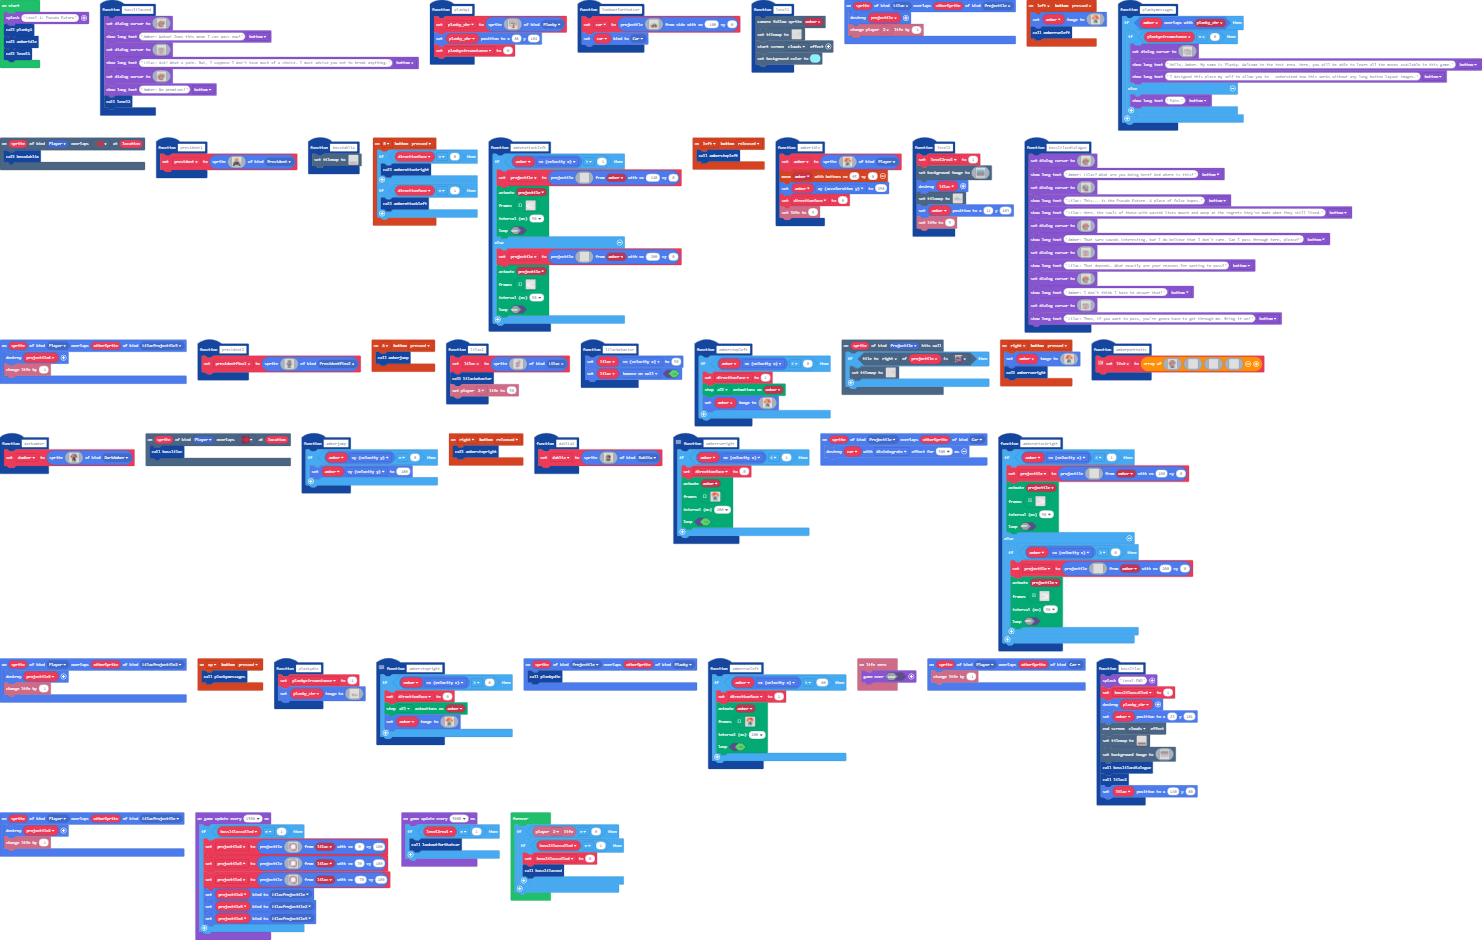
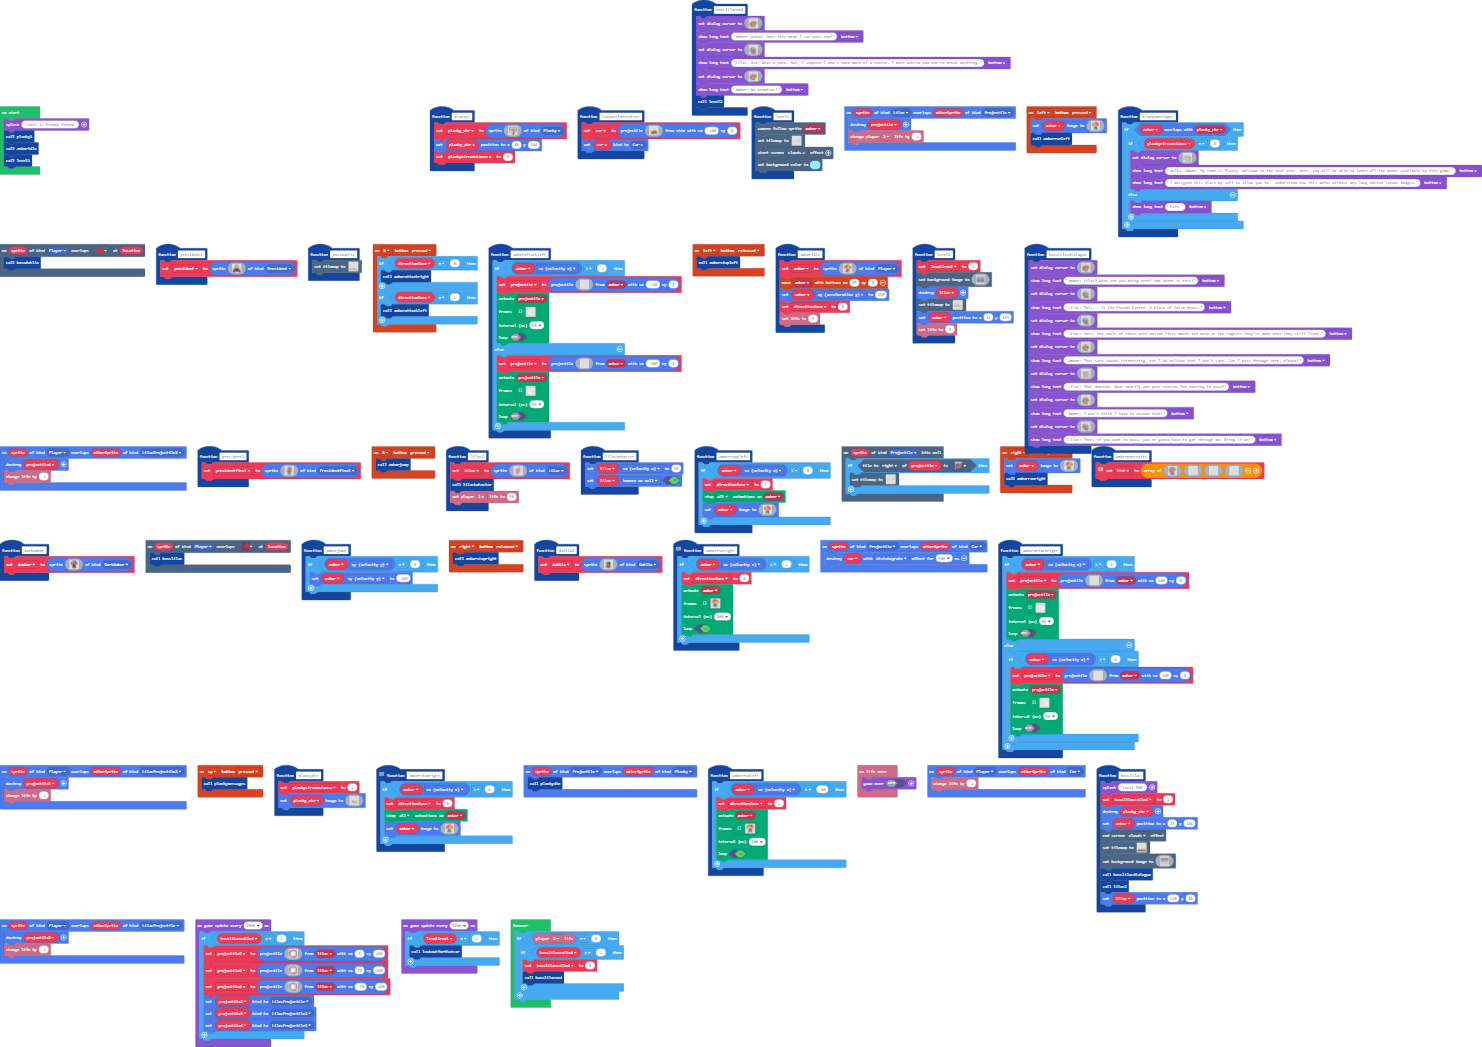
Update main.blocks, main.ts

diff --git a/main.ts b/main.ts
@@ -456,47 +456,47 @@ function bosslilacend () {
 . . . . . . . . . . . . . . . . . . . . . . . . . . . . . . . . . . . . . . . . . . . . . . . . . . 
 . . . . . . . . . . . . . . . . . . . . . . . . . . . . . . . . . . . . . . . . . . . . . . . . . . 
 . . . . . . . . . . . . . . . . . . . . . . . . . . . . . . . . . . . . . . . . . . . . . . . . . . 
-. . . . . . . . . . . . . . . . . . . . . . . . . . . . . . . . . . . . . . . . . . . . . . . . . . 
-. . . . . . . . . . . . . . . . . . . . . . . . . . . . . . . . . . . . . . . . . . . . . . . . . . 
-. . . . . . . . . . . . . . . . . . . . . . . . . . . . . . . . . . . . . . b . . . . . . . . . . . 
-. . . . . . . . . . . . . . . . . b . . . . . . . . . . . . . . . . . . . b b . . . . . . . . . . . 
-. . . . . . . . . . . . . . . . . b . . . . b b b b b b b b b b b b . b b b . . . . . . . . . . . . 
-. . . . . . . 2 2 2 . . . . . . . . b b b b b b b b b b b b b b b b b b b . . . . . . . . . . . . . 
-. . . . . . . 2 . . 2 . . . . b b b b b b b b b b b b b b b b b b b b b b b b . . b . . . . . . . . 
-. . . . . . . 2 . . 2 2 . b 2 2 2 b b b b b b b b b b b b b b b b b b b b b b b b b . . . . . . . . 
-. . . . . . . 2 . . 2 2 2 2 b b 2 b b b b b b b b b b b b b b b b b b b b b b b b . . . . . . . . . 
-. . . . . . . 2 2 2 2 b 2 b b b 2 b b b b b b b b b b b b b b b b b b b b b b b b b . . . . . . . . 
-. . . . . . . 2 2 2 2 2 b b b b 2 b b b b b b b b b b b b b b b b b b b b b b b b b . . . . . . . . 
-. . . . . . . 2 b 2 2 b 2 2 2 2 b b b b b b b b b b b b f b b b b b b b b b b b b b b . . . . . . . 
-. . . . . 2 2 b 2 2 2 2 b 2 b b b b f f b b b b b b b f f b b b b b b b b b b b b b b b . . . . . . 
-. . . . . 2 . 2 b 2 2 b b b b b b b b f f b b b b f f d d d d d d d b b b b b b b b b b . . . . . . 
-. . . . 2 2 2 b 2 2 2 b b b b b b b b b f f d d f f f f f f f f d d b b b b b b b b b b b . . . . . 
-. . . . . . b b 2 2 b b b b d f f f f f f d d d d d f f f f f f d d b b b b b b b b b b b . . . . . 
-. . . b . . b b 2 2 b b b b d f f f f f f d d d d f d d d d d d d d b b b b b b b b b b b b . . . . 
-. . . b b b b b 2 b b b b b d d d d d d d d d d f f d d d d d d d d b b b b b b b b b b b b . . . . 
-. . . . b b b b b b b b b b d d d d d f f f f f f f d d d d d d d d b b b b b b b b b b b . . . . . 
-. . . . . b b b b b b b b b d d d d d d d d d d d f f d d d d d d d b b b b b b b b b . . . . . . . 
-. . . . . b b b b b b b b b d d d d d d d d d d d d d d d d d f f f b b b b b b b . . . . . . . . . 
-. . . . . b b b b b b b b b . d d d d d d d d d d d d f f d f 1 1 f b b b b . . . . . . . . . . . . 
-. . . . . b b b b b b b b b b . . d d d d d f f d d f 1 1 f f 1 1 1 b b b b b b b b b . . . . . . . 
-. . . . . b b b b b b b b b b . . . . d d f f f f f 1 1 1 f 1 1 1 1 b b b b b b b b b b . . . . . . 
-. . . . . . . . . . . . . . . . f f f f f f 1 f f 1 1 1 1 1 1 1 b b b b b b b b b b b b b b b . . . 
-. . . . . . . . . b b b b b b b f 1 1 f f 1 1 1 1 1 1 1 1 f f b b b b b b b b b b b b b b b . . . . 
-. . . . . . . . b b b b b b b b f f 1 1 1 1 1 1 2 f f f f b b b b b b b b b b b b b b b b . . . . . 
-. . . . . . . . b b b b b b b b b f f 1 1 2 2 2 f 2 2 2 2 2 b b b b b b b b b b b b b b b . . . . . 
-. . . . . . . b b b b b b b b b b b f 2 2 2 2 1 1 2 1 1 1 2 b b b b b b b b b b b b b b . . . . . . 
-. . . . . b b b b b b b b b b b b b 2 1 1 1 2 2 2 2 2 1 1 2 b b b b b b b b b b b b b . . . . . . . 
-. . . . . . . . b b b b b b b b b 2 1 1 1 1 1 2 2 b b 2 2 b b b b b b b b b b b b b b . . . . . . . 
-. . . . . . . . b b b b b b b b 2 2 2 2 2 2 2 b 2 b b b b b b b b b b b b b b b b . . . . . . . . . 
-. . . . . . . . . . f b b b b b b b b b b b 2 b b 2 b b b b b b b b . . . . . f f . . . . . . . . . 
-. . . . . . . . . f . . . . b b b b b b b 2 b b b 2 b b b b b b b b . . . . . . f . . . . . . . . . 
-. . . . . . . . f f . . . . b b b b b b 2 b b b b 2 b b b b b b b . . . . . . . f f . . . . . . . . 
-. . . . . . . . f . . . . . . 2 2 b b b 2 b b b b b 2 b b b b 2 . . . . . . . . . f f . . . . . . . 
-. . . . . . f f . . . . . . . 2 2 2 2 2 2 2 2 2 2 2 2 2 2 2 2 2 . . . . . . . . . . f f . . . . . . 
-. . . . . . f . . . . . b b b 2 2 2 2 2 2 2 2 2 2 2 2 2 2 2 2 2 . . . . . . . . . . . f . . . . . . 
-. . . . . f . . . . b b b b b b b b b 2 2 2 2 2 2 2 2 2 2 2 2 2 b b b . . . . . . . . . f f . . . . 
-. . . . f f . . . b b b b b b b b b b b b b b b b b b b b b b b b b b b b . . . . . . . . f . . . . 
-. . . . . . . . b b b b b b b b b b b b b b b b b b b b b b b b b b b b b b . . . . . . . . . . . . 
+. . . . . . . . . . . . . . . . f f f f f f f f f f f f f . . . . . . . . . . . . . . . . . . . . . 
+. . . . . . . . . f . . . . f f c b b b b b b b b b b b c f f . . f . . . . . . . . . . . . . . . . 
+. . . . . . . . . . f . f f c b b b b b b b b b b b b b b b c f f . . . . . . . . . . . . . . . . . 
+. . . . . . . . . f . f c b b b b b b b b b b b b b b b b b b b c f . . . . . . . . . . . . . . . . 
+. . . . . . . . . . f c f b b b b b b b b b b b b b b b b b b b d b f . . . . . . . . . . . . . . . 
+. . . . . . . . . f c f b f b b f f b b b b b b b b b b b b b d 1 1 b f . . . . . . . . . . . . . . 
+. . . . . . f f f c b b b b b f c f b b b b b b b b b b b d 1 1 1 1 d c f . . . . . . . . . . . . . 
+. . . . . . f c f c b b b b f 2 2 f b b b b b b b b d 1 1 1 1 1 d b b b f . . . . . . . . . . . . . 
+. . . . . . f 2 2 f c b b f 2 2 2 f b b d 1 1 1 1 1 1 1 1 d c b b b b b c f . . . . . . . . . . . . 
+. . . . . . f 2 2 2 f f f 2 2 2 c f b b b b b d 1 1 d b b b b f b b b b c f . . . . . . . . . . . . 
+. . . . . . f c 2 f 2 2 f 2 2 2 f b b b b b b b b b b b b b b b f b b c f c f . . . . . . . . . . . 
+. . . . . . f f 2 f 2 2 f 2 2 2 f b b b b b b b b b b b b b b b f c c f c b c f . . . . . . . . . . 
+. . . . . . f f 2 f 2 c f 2 2 c f b b b b b c b b b b b b b b b b f f f c b b c f . . . . . . . . . 
+. . . . . . f f c 2 f f f c 2 f b b b b b b f b b b b b b b b b c f c f c b b b f . . . . . . . . . 
+. . . . . f c b f f c f 2 f f f b b b b b b f b b b b b b b b c f f c c f b b b c f . . . . . . . . 
+. . . . . f b b f 2 f f 2 f b b b b b b b b f b b b b b b b c f c f c b f b b c c f f . . . . . . . 
+. . . . f c b f 2 2 f f 2 f b b c b b b b c f c b b b b c f f c c f f b f c b f c f . . . . . . . . 
+. . . . f b f c 2 f b f 2 f b b f c c f c c f f c c f f f c c f b c f b c f b b f f . . . . . . . . 
+. . . f c b f c f b b f 2 f b b c f f f f f f f f f c c c f f b f f f b b f c b f f . . . . . . . . 
+. . . f c b b f f b b f c f b b b c f c c f f c f c b b f f f f d 1 1 c b f c b f . . . . . . . . . 
+. . . f c b b b b b b b f f c b b b f c c d d f f 2 2 2 2 2 2 2 d d c f b c f c f . . . . . . . . . 
+. . . f c c b b b b b b b c f b b b f f f f f 2 2 2 2 2 2 2 d d d b c f b b f f . . . . . . . . . . 
+. . . . f c c f b b f b b b f b b b 1 1 d d d d d d b d d d d d d b c f c b f . . . . . . . . . . . 
+. . . . f c c f c b f c b b f b b b b f b d d d d b f f d b d d b c f f c c f . . . . . . . . . . . 
+. . . . . f c c f b c f b b f c b b b f c b d d d f d d f f d b c f f f f c f . . . . . . . . . . . 
+. . . . . . f c f c b f c b f c b b b c f c b d d d d d d d b c f f . . . f f . . . . . . . . . . . 
+. . . . . f . f f f c c f c c f c b b b f c c b b b b b b c f f . . f . . . . . . . . . . . . . . . 
+. . . . . . . . . . f f f f c c f c b b c f f f f f f f f f f . . . . . . . . . . . . . . . . . . . 
+. . . . . . . . . . . . . . f f f f c c c f c b b f f f f f f f f . . . . . . . . . . . . . . . . . 
+. . . . . . . . . . . . . f c b b c f f f f c b 1 1 1 f f f 1 1 c f f f . . . . . . . . . . . . . . 
+. . . . . . . . . . . . f c b b b b b c f c f c b 1 1 1 1 1 1 b c f c b f f . . . . . . . . . . . . 
+. . . . . . . . . . . f c b b b b b b b c f c f c b b 1 1 b c f f f c b b c f . . . . . . . . . . . 
+. . . . . . . . . . . f b b b b f b b b b c f c f f f f f f f f c 2 f c b b c f . . . . . . . . . . 
+. . . . . . . . . . f c b b b f b b b b b b f c f c 2 f c 2 2 f f 2 2 f c b b f . . . . . . . . . . 
+. . . . . . . . . . f b b b f b b b b b b b c f c 2 f f f c c f c f 2 2 f b b c f . . . . . . . . . 
+. . . . . . . . . . f b b f f b b b b b b b b f c 2 f c c f f c f c c c f c b b f f . . . . . . . . 
+. . . . . . . . . . f c f b f b b b b b b b b f c 2 2 2 f c f c 2 f f f c f b f f . . . . . . . . . 
+. . . . . . . . . . f f 1 f b b b b b b b b b f f c c f f 2 f f c f c c b f c b f f . . . . . . . . 
+. . . . . . . . . f f f 1 f b b b b b b b b c f c f f c f 2 f 1 f 2 f b b c f c f . . . . . . . . . 
+. . . . . . . . . . . . f f b b b b b b c f f c f c c c f 2 f 1 f c f b b b f f f . . . . . . . . . 
+. . . . . . . . . . . . f c b b b b c f f b 1 1 c f b c f c f b 1 f b b b b f c . f . . . . . . . . 
 `)
     game.showLongText("Lilac: Ack! What a pain. But, I suppose I don't have much of a choice. I must advise you not to break anything.", DialogLayout.Bottom)
     game.setDialogCursor(img`
@@ -1237,6 +1237,58 @@ function bosslilacdialogue () {
 . . . . . . . . . . . . f c b b b b c f f b 1 1 c f b c f c f b 1 f b b b b f c . f . . . . . . . . 
 `)
     game.showLongText("Lilac: This... is the Pseudo Future. A place of false hopes.", DialogLayout.Bottom)
+    game.setDialogCursor(img`
+. . . . . . . . . . . . . . . . . . . . . . . . . . . . . . . . . . . . . . . . . . . . . . . . . . 
+. . . . . . . . . . . . . . . . . . . . . . . . . . . . . . . . . . . . . . . . . . . . . . . . . . 
+. . . . . . . . . . . . . . . . . . . . . . . . . . . . . . . . . . . . . . . . . . . . . . . . . . 
+. . . . . . . . . . . . . . . . . . . . . . . . . . . . . . . . . . . . . . . . . . . . . . . . . . 
+. . . . . . . . . . . . . . . . . . . . . . . . . . . . . . . . . . . . . . . . . . . . . . . . . . 
+. . . . . . . . . . . . . . . . . . . . . . . . . . . . . . . . . . . . . . . . . . . . . . . . . . 
+. . . . . . . . . . . . . . . . . . . . . . . . . . . . . . . . . . . . . . . . . . . . . . . . . . 
+. . . . . . . . . . . . . . . . . . . . . . . . . . . . . . . . . . . . . . . . . . . . . . . . . . 
+. . . . . . . . . . . . . . . . . . . . . . . . . . . . . . . . . . . . . . . . . . . . . . . . . . 
+. . . . . . . . . . . . . . . . f f f f f f f f f f f f f . . . . . . . . . . . . . . . . . . . . . 
+. . . . . . . . . . . . . . f f c b b b b b b b b b b b c f f . . . . . . . . . . . . . . . . . . . 
+. . . . . . . . . . . . f f c b b b b b b b b b b b b b b b c f f . . . . . . . . . . . . . . . . . 
+. . . . . . . . . . . f c b b b b b b b b b b b b b b b b b b b c f . . . . . . . . . . . . . . . . 
+. . . . . . . . . . f c b b b b b b b b b b b b b b b b b b b b d b f . . . . . . . . . . . . . . . 
+. . . . . . . . . f c b b b b b f f b b b b b b b b b b b b b d 1 1 b f . . . . . . . . . . . . . . 
+. . . . . . f f f c b b b b b f c f b b b b b b b b b b b d 1 1 1 1 d c f . . . . . . . . . . . . . 
+. . . . . . f c f c b b b b f 2 2 f b b b b b b b b d 1 1 1 1 1 d b b b f . . . . . . . . . . . . . 
+. . . . . . f 2 2 f c b b f 2 2 2 f b b d 1 1 1 1 1 1 1 1 d c b b b b b c f . . . . . . . . . . . . 
+. . . . . . f 2 2 2 f f f 2 2 2 c f b b b b b d 1 1 d b b b b f b b b b c f . . . . . . . . . . . . 
+. . . . . . f c 2 f 2 2 f 2 2 2 f b b b b b b b b b b b b b b b f b b c f c f . . . . . . . . . . . 
+. . . . . . f f 2 f 2 2 f 2 2 2 f b b b b b b b b b b b b b b b f c c f c b c f . . . . . . . . . . 
+. . . . . . f f 2 f 2 c f 2 2 c f b b b b b c b b b b b b b b b b f f f c b b c f . . . . . . . . . 
+. . . . . . f f c 2 f f f c 2 f b b b b b b f b b b b b b b b b c f c f c b b b f . . . . . . . . . 
+. . . . . f c b f f c f 2 f f f b b b b b b f b b b b b b b b c f f c c f b b b c f . . . . . . . . 
+. . . . . f b b f 2 f f 2 f b b b b b b b b f b b b b b b b c f c f c b f b b c c f . . . . . . . . 
+. . . . f c b f 2 2 f f 2 f b b c b b b b c f c b b b b c f f c c f f b f c b f c f . . . . . . . . 
+. . . . f b f c 2 f b f 2 f b b f c c c c c f f c c f f f c c b b c f b c f b b f f . . . . . . . . 
+. . . f c b f c f b b f 2 f b b c f f f f f f f f f c c c b b b f f f b b f c b f f . . . . . . . . 
+. . . f c b b f f b b f c f b b b c f c c c c c c c b b b f f f b b f c b f c b f . . . . . . . . . 
+. . . f c b b b b b b b f f c b b b f c c b b f f d d d d d d d d d c f b c f c f . . . . . . . . . 
+. . . f c c b b b b b b b c f b b b f f f f f d d d d d d d d d d b c f b b f f . . . . . . . . . . 
+. . . . f c c f b b f b b b f b b b c f d d d d d d d d d d d d d b c f c b f . . . . . . . . . . . 
+. . . . f c c f c b f c b b f b b b b f b d d d d d d f f f d d b c f f c c f . . . . . . . . . . . 
+. . . . . f c c f b c f b b f c b b b f c b d d d d f 3 2 2 f b c f f f f c f . . . . . . . . . . . 
+. . . . . . f c f c b f c b f c b b b c f c b d d d c 3 3 2 c c f f . . . f f . . . . . . . . . . . 
+. . . . . . . f f f c c f c c f c b b b f c c b b b b b b c f f . . . . . . . . . . . . . . . . . . 
+. . . . . . . . . . f f f f c c f c b b c f f f f f f f f f f . . . . . . . . . . . . . . . . . . . 
+. . . . . . . . . . . . . . f f f f c c c f c b b f f f f f f f f . . . . . . . . . . . . . . . . . 
+. . . . . . . . . . . . . f c b b c f f f f c b 1 1 1 f f f 1 1 c f f f . . . . . . . . . . . . . . 
+. . . . . . . . . . . . f c b b b b b c f c f c b 1 1 1 1 1 1 b c f c b f f . . . . . . . . . . . . 
+. . . . . . . . . . . f c b b b b b b b c f c f c b b 1 1 b c f f f c b b c f . . . . . . . . . . . 
+. . . . . . . . . . . f b b b b b b b b b c f c f f f f f f f f c 2 f c b b c f . . . . . . . . . . 
+. . . . . . . . . . f c b b b b b b b b b b f c f c 2 f c 2 2 f f 2 2 f c b b f . . . . . . . . . . 
+. . . . . . . . . . f b b b b b b b b b b b c f c 2 f f f c c f c f 2 2 f b b c f . . . . . . . . . 
+. . . . . . . . . . f b b b b b b b b b b b b f c 2 f c c f f c f c c c f c b b f . . . . . . . . . 
+. . . . . . . . . . f b b b b b b b b b b b b f c 2 2 2 f c f c 2 f f f c f b b f . . . . . . . . . 
+. . . . . . . . . . f c b b b b b b b b b b b f f c c f f 2 f f c f c c b f c b f . . . . . . . . . 
+. . . . . . . . . . . f b b b b b b b b b b c f c f f c f 2 f 1 f 2 f b b c f c f . . . . . . . . . 
+. . . . . . . . . . . f c b b b b b b b c f f c f c c c f 2 f 1 f c f b b b f f f . . . . . . . . . 
+. . . . . . . . . . . . f c b b b b c f f b 1 1 c f b c f c f b 1 f b b b b f c . f . . . . . . . . 
+`)
     game.showLongText("Lilac: Here, the souls of those with wasted lives mourn and weep at the regrets they've made when they still lived.", DialogLayout.Bottom)
     game.setDialogCursor(img`
 . . . . . . . . . . . . . . . . . . . . . . . . . . . . . . . . . . . . . . . . . . . . . . . . . . 
@@ -1407,47 +1459,47 @@ function bosslilacdialogue () {
 . . . . . . . . . . . . . . . . . . . . . . . . . . . . . . . . . . . . . . . . . . . . . . . . . . 
 . . . . . . . . . . . . . . . . . . . . . . . . . . . . . . . . . . . . . . . . . . . . . . . . . . 
 . . . . . . . . . . . . . . . . . . . . . . . . . . . . . . . . . . . . . . . . . . . . . . . . . . 
-. . . . . . . . . . . . . . . . . . . . . . . . . . . . . . . . . . . . . . . . . . . . . . . . . . 
-. . . . . . . . . . . . . . . . . . . . . . . . . . . . . . . . . . . . . . . . . . . . . . . . . . 
-. . . . . . . . . . . . . . . . . . . . . . . . . . . . . . . . . . . . . . . . . . . . . . . . . . 
-. . . . . . . . . . . . . . . . . . . . . . . . . . . . . . . . . . . . . . . . . . . . . . . . . . 
-. . . . . . . . . . . . . . . . . . . . . . b b b b b b b b b b b b . . . . . . . . . . . . . . . . 
-. . . . . . . 2 2 2 . . . . . . . . b b b b b b b b b b b b b b b b b b b . . . . . . . . . . . . . 
-. . . . . . . 2 . . 2 . . . . b b b b b b b b b b b b b b b b b b b b b b b b . . . . . . . . . . . 
-. . . . . . . 2 . . 2 2 . b 2 2 2 b b b b b b b b b b b b b b b b b b b b b b b . . . . . . . . . . 
-. . . . . . . 2 . . 2 2 2 2 b b 2 b b b b b b b b b b b b b b b b b b b b b b b b . . . . . . . . . 
-. . . . . . . 2 2 2 2 b 2 b b b 2 b b b b b b b b b b b b b b b b b b b b b b b b b . . . . . . . . 
-. . . . . . . 2 2 2 2 2 b b b b 2 b b b b b b b b b b b b f b b b b b b b b b b b b . . . . . . . . 
-. . . . . . . 2 b 2 2 b 2 2 2 2 f b b b b b b b b b b b f b b b b b b b b b b b b b b . . . . . . . 
-. . . . . 2 2 b 2 2 2 2 b 2 b b f f b b b b b b b b b f f b b b b b b b b b b b b b b b . . . . . . 
-. . . . . 2 . 2 b 2 2 b b b b b b f f b b b b b b b b f f f f f d d b b b b b b b b b b . . . . . . 
-. . . . 2 2 2 b 2 2 2 b b b b b b b f f b d d d d d f d d 2 d d d d b b b b b b b b b b b . . . . . 
-. . . . . . b b 2 2 b b b b d f f f f f f d d d d d d d d 2 d d d d b b b b b b b b b b b . . . . . 
-. . . . . . b b 2 2 b b b b d f f 2 d d f d d d d d d d d 2 d d d d b b b b b b b b b b b b . . . . 
-. . . . . b b b 2 b b b b b d d d 2 d d d d d d f f d d d d d d d d b b b b b b b b b b b b . . . . 
-. . . . . b b b b b b b b b d d d d d d d d f f d d f f d d d d d d b b b b b b b b b b b . . . . . 
-. . . . . b b b b b b b b b d d d d d d d f f d d d d f f d d d d d b b b b b b b b b . . . . . . . 
-. . . . . b b b b b b b b b d d d d d d f d d d d d d d d d d f f f b b b b b b b . . . . . . . . . 
-. . . . . b b b b b b b b b . d d d d d f d d d d d d f f d f 1 1 f b b b b . . . . . . . . . . . . 
-. . . . . b b b b b b b b b b . . d d d d d f f d d f 1 1 f f 1 1 1 b b b b b b b b b . . . . . . . 
-. . . . . b b b b b b b b b b . . . . d d f f f f f 1 1 1 f 1 1 1 1 b b b b b b b b b b . . . . . . 
-. . . . . . . . . . . . . . . . f f f f f f 1 f f 1 1 1 1 1 1 1 b b b b b b b b b b b b b . . . . . 
-. . . . . . . . . b b b b b b b f 1 1 f f 1 1 1 1 1 1 1 1 f f b b b b b b b b b b b b b b . . . . . 
-. . . . . . . . b b b b b b b b f f 1 1 1 1 1 1 2 f f f f b b b b b b b b b b b b b b b b . . . . . 
-. . . . . . . . b b b b b b b b b f f 1 1 2 2 2 f 2 2 2 2 2 b b b b b b b b b b b b b b b . . . . . 
-. . . . . . . b b b b b b b b b b b f 2 2 2 2 1 1 2 1 1 1 2 b b b b b b b b b b b b b b . . . . . . 
-. . . . . . . b b b b b b b b b b b 2 1 1 1 2 2 2 2 2 1 1 2 b b b b b b b b b b b b b . . . . . . . 
-. . . . . . . . b b b b b b b b b 2 1 1 1 1 1 2 2 b b 2 2 b b b b b b b b b b b b b b . . . . . . . 
-. . . . . . . . b b b b b b b b 2 2 2 2 2 2 2 b 2 b b b b b b b b b b b b b b b b . . . . . . . . . 
-. . . . . . . . . . f b b b b b b b b b b b 2 b b 2 b b b b b b b b . . . . . f f . . . . . . . . . 
-. . . . . . . . . f . . . . b b b b b b b 2 b b b 2 b b b b b b b b . . . . . . f . . . . . . . . . 
-. . . . . . . . f f . . . . b b b b b b 2 b b b b 2 b b b b b b b . . . . . . . f f . . . . . . . . 
-. . . . . . . . f . . . . . . 2 2 b b b 2 b b b b b 2 b b b b 2 . . . . . . . . . f f . . . . . . . 
-. . . . . . f f . . . . . . . 2 2 2 2 2 2 2 2 2 2 2 2 2 2 2 2 2 . . . . . . . . . . f f . . . . . . 
-. . . . . . f . . . . . b b b 2 2 2 2 2 2 2 2 2 2 2 2 2 2 2 2 2 . . . . . . . . . . . f . . . . . . 
-. . . . . f . . . . b b b b b b b b b 2 2 2 2 2 2 2 2 2 2 2 2 2 b b b . . . . . . . . . f f . . . . 
-. . . . f f . . . b b b b b b b b b b b b b b b b b b b b b b b b b b b b . . . . . . . . f . . . . 
-. . . . . . . . b b b b b b b b b b b b b b b b b b b b b b b b b b b b b b . . . . . . . . . . . . 
+. . . . . . . . . . . . . . . . f f f f f f f f f f f f f . . . . . . . . . . . . . . . . . . . . . 
+. . . . . . . . . . . . . . f f c b b b b b b b b b b b c f f . . . . . . . . . . . . . . . . . . . 
+. . . . . . . . . . . . f f c b b b b b b b b b b b b b b b c f f . . . . . . . . . . . . . . . . . 
+. . . . . . . . . . . f c b b b b b b b b b b b b b b b b b b b c f . . . . . . . . . . . . . . . . 
+. . . . . . . . . . f c b b b b b b b b b b b b b b b b b b b b d b f . . . . . . . . . . . . . . . 
+. . . . . . . . . f c b b b b b f f b b b b b b b b b b b b b d 1 1 b f . . . . . . . . . . . . . . 
+. . . . . . f f f c b b b b b f c f b b b b b b b b b b b d 1 1 1 1 d c f . . . . . . . . . . . . . 
+. . . . . . f c f c b b b b f 2 2 f b b b b b b b b d 1 1 1 1 1 d b b b f . . . . . . . . . . . . . 
+. . . . . . f 2 2 f c b b f 2 2 2 f b b d 1 1 1 1 1 1 1 1 d c b b b b b c f . . . . . . . . . . . . 
+. . . . . . f 2 2 2 f f f 2 2 2 c f b b b b b d 1 1 d b b b b f b b b b c f . . . . . . . . . . . . 
+. . . . . . f c 2 f 2 2 f 2 2 2 f b b b b b b b b b b b b b b b f b b c f c f . . . . . . . . . . . 
+. . . . . . f f 2 f 2 2 f 2 2 2 f b b b b b b b b b b b b b b b f c c f c b c f . . . . . . . . . . 
+. . . . . . f f 2 f 2 c f 2 2 c f b b b b b c b b b b b b b b b b f f f c b b c f . . . . . . . . . 
+. . . . . . f f c 2 f f f c 2 f b b b b b b f b b b b b b b b b c f c f c b b b f . . . . . . . . . 
+. . . . . f c b f f c f 2 f f f b b b b b b f b b b b b b b b c f f c c f b b b c f . . . . . . . . 
+. . . . . f b b f 2 f f 2 f b b b b b b b b f b b b b b b b c f f f c b f b b c c f . . . . . . . . 
+. . . . f c b f 2 2 f f 2 f b b c b b b b c f c b b b b c f f f f f f b f c b f c f . . . . . . . . 
+. . . . f b f c 2 f b f 2 f b b f c c c c c f f c c f f f f b b b f f b c f b b f f . . . . . . . . 
+. . . f c b f c f b b f 2 f b b c f f f f f f f f f c c f c 1 1 1 b f b b f c b f f . . . . . . . . 
+. . . f c b b f f b b f c f b b b c f b f b f f c c b f 1 2 1 1 1 b f c b f c b f . . . . . . . . . 
+. . . f c b b b b b b b f f c b b b f 1 c 1 1 1 f d d d d d d d d d c f b c f c f . . . . . . . . . 
+. . . f c c b b b b b b b c f b b b f b 2 1 1 d d d d d d d d d d b c f b b f f . . . . . . . . . . 
+. . . . f c c f b b f b b b f b b b c f d d d d d d d d d d d d d b c f c b f . . . . . . . . . . . 
+. . . . f c c f c b f c b b f b b b b f b d d d d d f f f f d d b c f f c c f . . . . . . . . . . . 
+. . . . . f c c f b c f b b f c b b b f c b d d d f 3 2 2 2 c b c f f f f c f . . . . . . . . . . . 
+. . . . . . f c f c b f c b f c b b b c f c b d d c 3 3 2 2 b c f f . . . f f . . . . . . . . . . . 
+. . . . . . . f f f c c f c c f c b b b f c c b b b b b b c f f . . . . . . . . . . . . . . . . . . 
+. . . . . . . . . . f f f f c c f c b b c f f f f f f f f f f . . . . . . . . . . . . . . . . . . . 
+. . . . . . . . . . . . . . f f f f c c c f c b b f f f f f f f f . . . . . . . . . . . . . . . . . 
+. . . . . . . . . . . . . f c b b c f f f f c b 1 1 1 f f f 1 1 c f f f . . . . . . . . . . . . . . 
+. . . . . . . . . . . . f c b b b b b c f c f c b 1 1 1 1 1 1 b c f c b f f . . . . . . . . . . . . 
+. . . . . . . . . . . f c b b b b b b b c f c f c b b 1 1 b c f f f c b b c f . . . . . . . . . . . 
+. . . . . . . . . . . f b b b b b b b b b c f c f f f f f f f f c 2 f c b b c f . . . . . . . . . . 
+. . . . . . . . . . f c b b b b b b b b b b f c f c 2 f c 2 2 f f 2 2 f c b b f . . . . . . . . . . 
+. . . . . . . . . . f b b b b b b b b b b b c f c 2 f f f c c f c f 2 2 f b b c f . . . . . . . . . 
+. . . . . . . . . . f b b b b b b b b b b b b f c 2 f c c f f c f c c c f c b b f . . . . . . . . . 
+. . . . . . . . . . f b b b b b b b b b b b b f c 2 2 2 f c f c 2 f f f c f b b f . . . . . . . . . 
+. . . . . . . . . . f c b b b b b b b b b b b f f c c f f 2 f f c f c c b f c b f . . . . . . . . . 
+. . . . . . . . . . . f b b b b b b b b b b c f c f f c f 2 f 1 f 2 f b b c f c f . . . . . . . . . 
+. . . . . . . . . . . f c b b b b b b b c f f c f c c c f 2 f 1 f c f b b b f f f . . . . . . . . . 
+. . . . . . . . . . . . f c b b b b c f f b 1 1 c f b c f c f b 1 f b b b b f c . f . . . . . . . . 
 `)
     game.showLongText("Lilac: Then, if you want to pass, you're gonna have to get through me. Bring it on!", DialogLayout.Bottom)
 }
